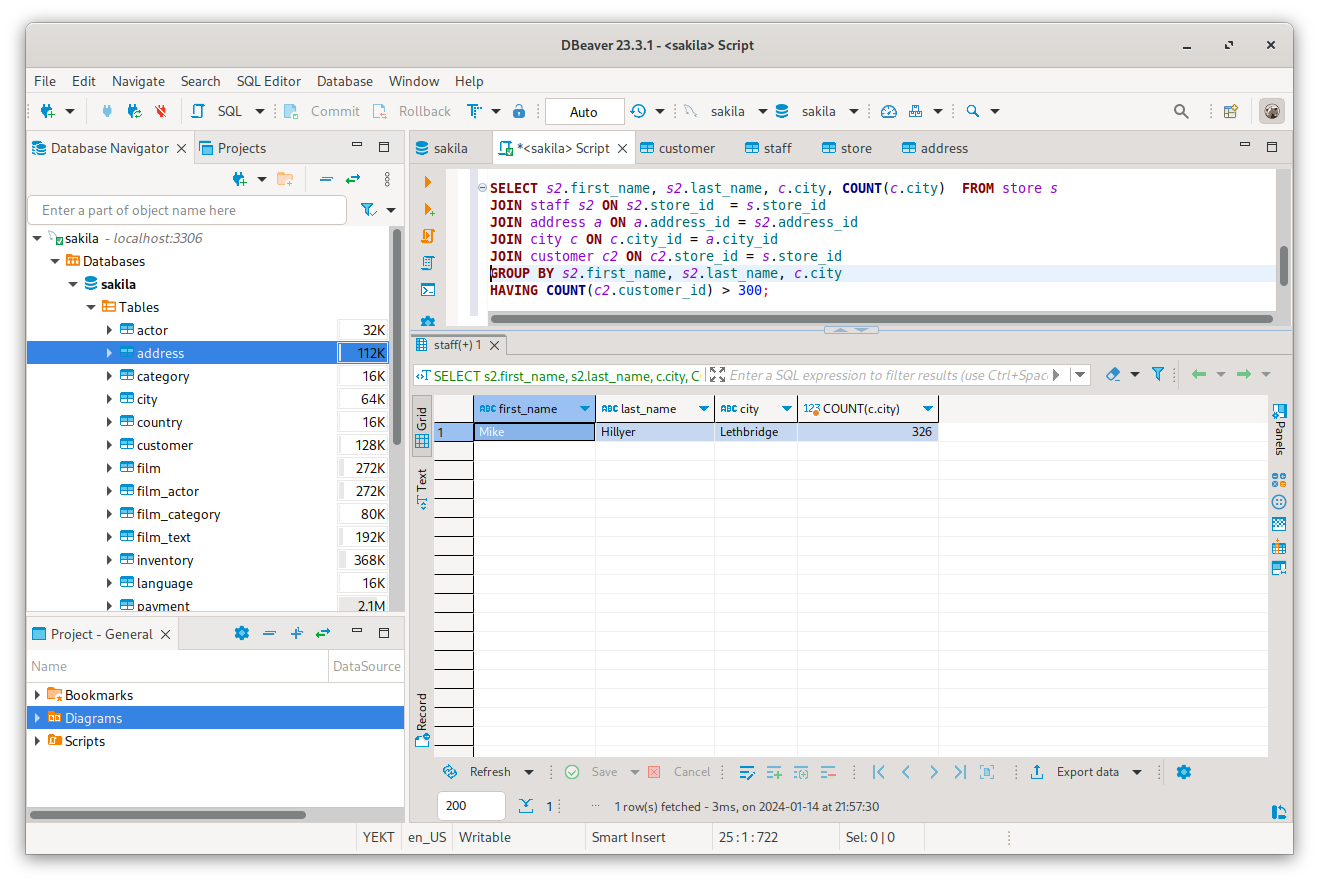
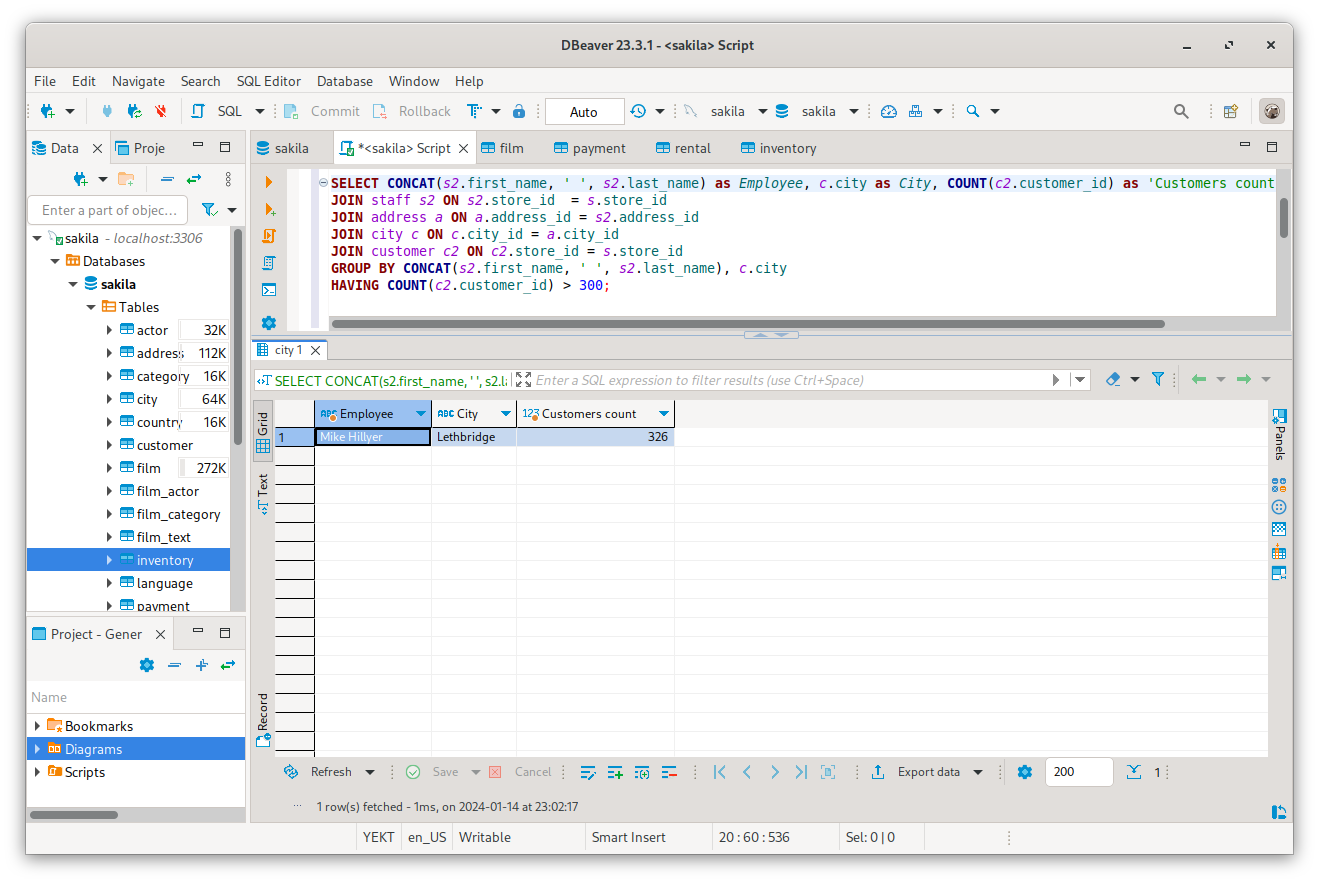
updated img

Changed region(s): [[0.0, 0.1223, 0.9636, 0.9785], [0.9636, 0.4587, 0.9947, 0.6727], [0.9636, 0.214, 0.9947, 0.3364]]

diff --git a/README.md b/README.md
@@ -1,4 +1,4 @@
-# Домашнее задание к занятию "`SQL. Часть 1`" - `Гультяев Алексей`
+# Домашнее задание к занятию "`SQL. Часть 2`" - `Гультяев Алексей`
 
 ### Задание 1
 Одним запросом получите информацию о магазине, в котором обслуживается более 300 покупателей, и выведите в результат следующую информацию:
